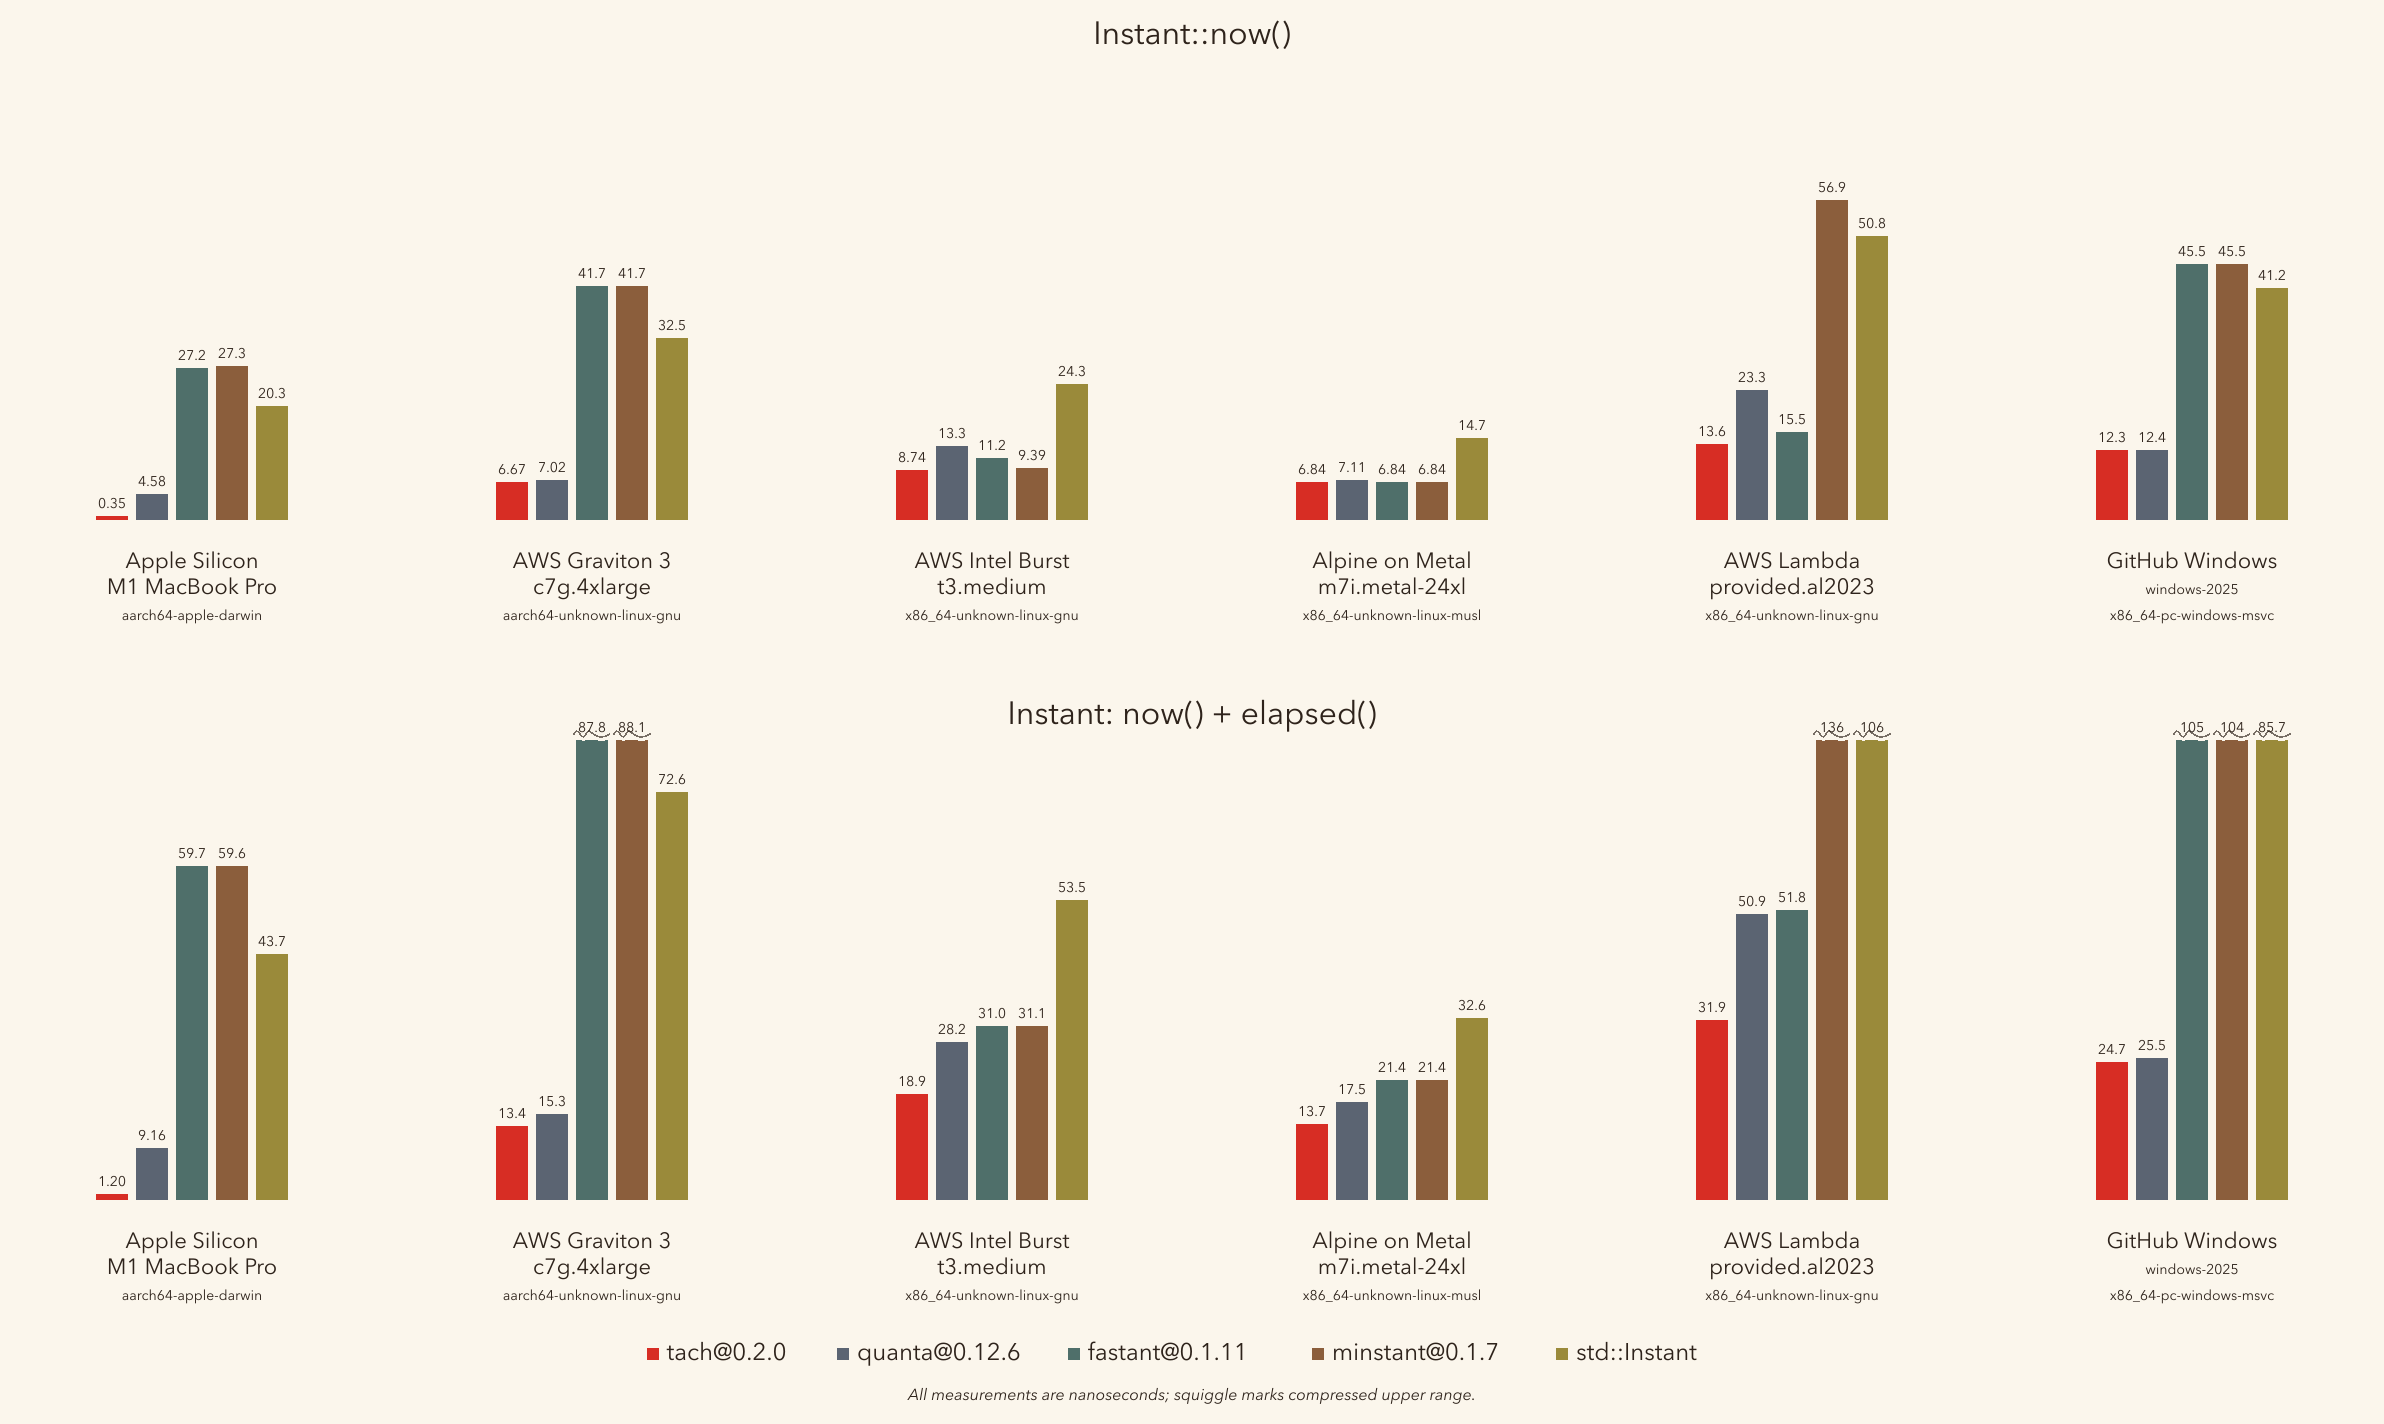
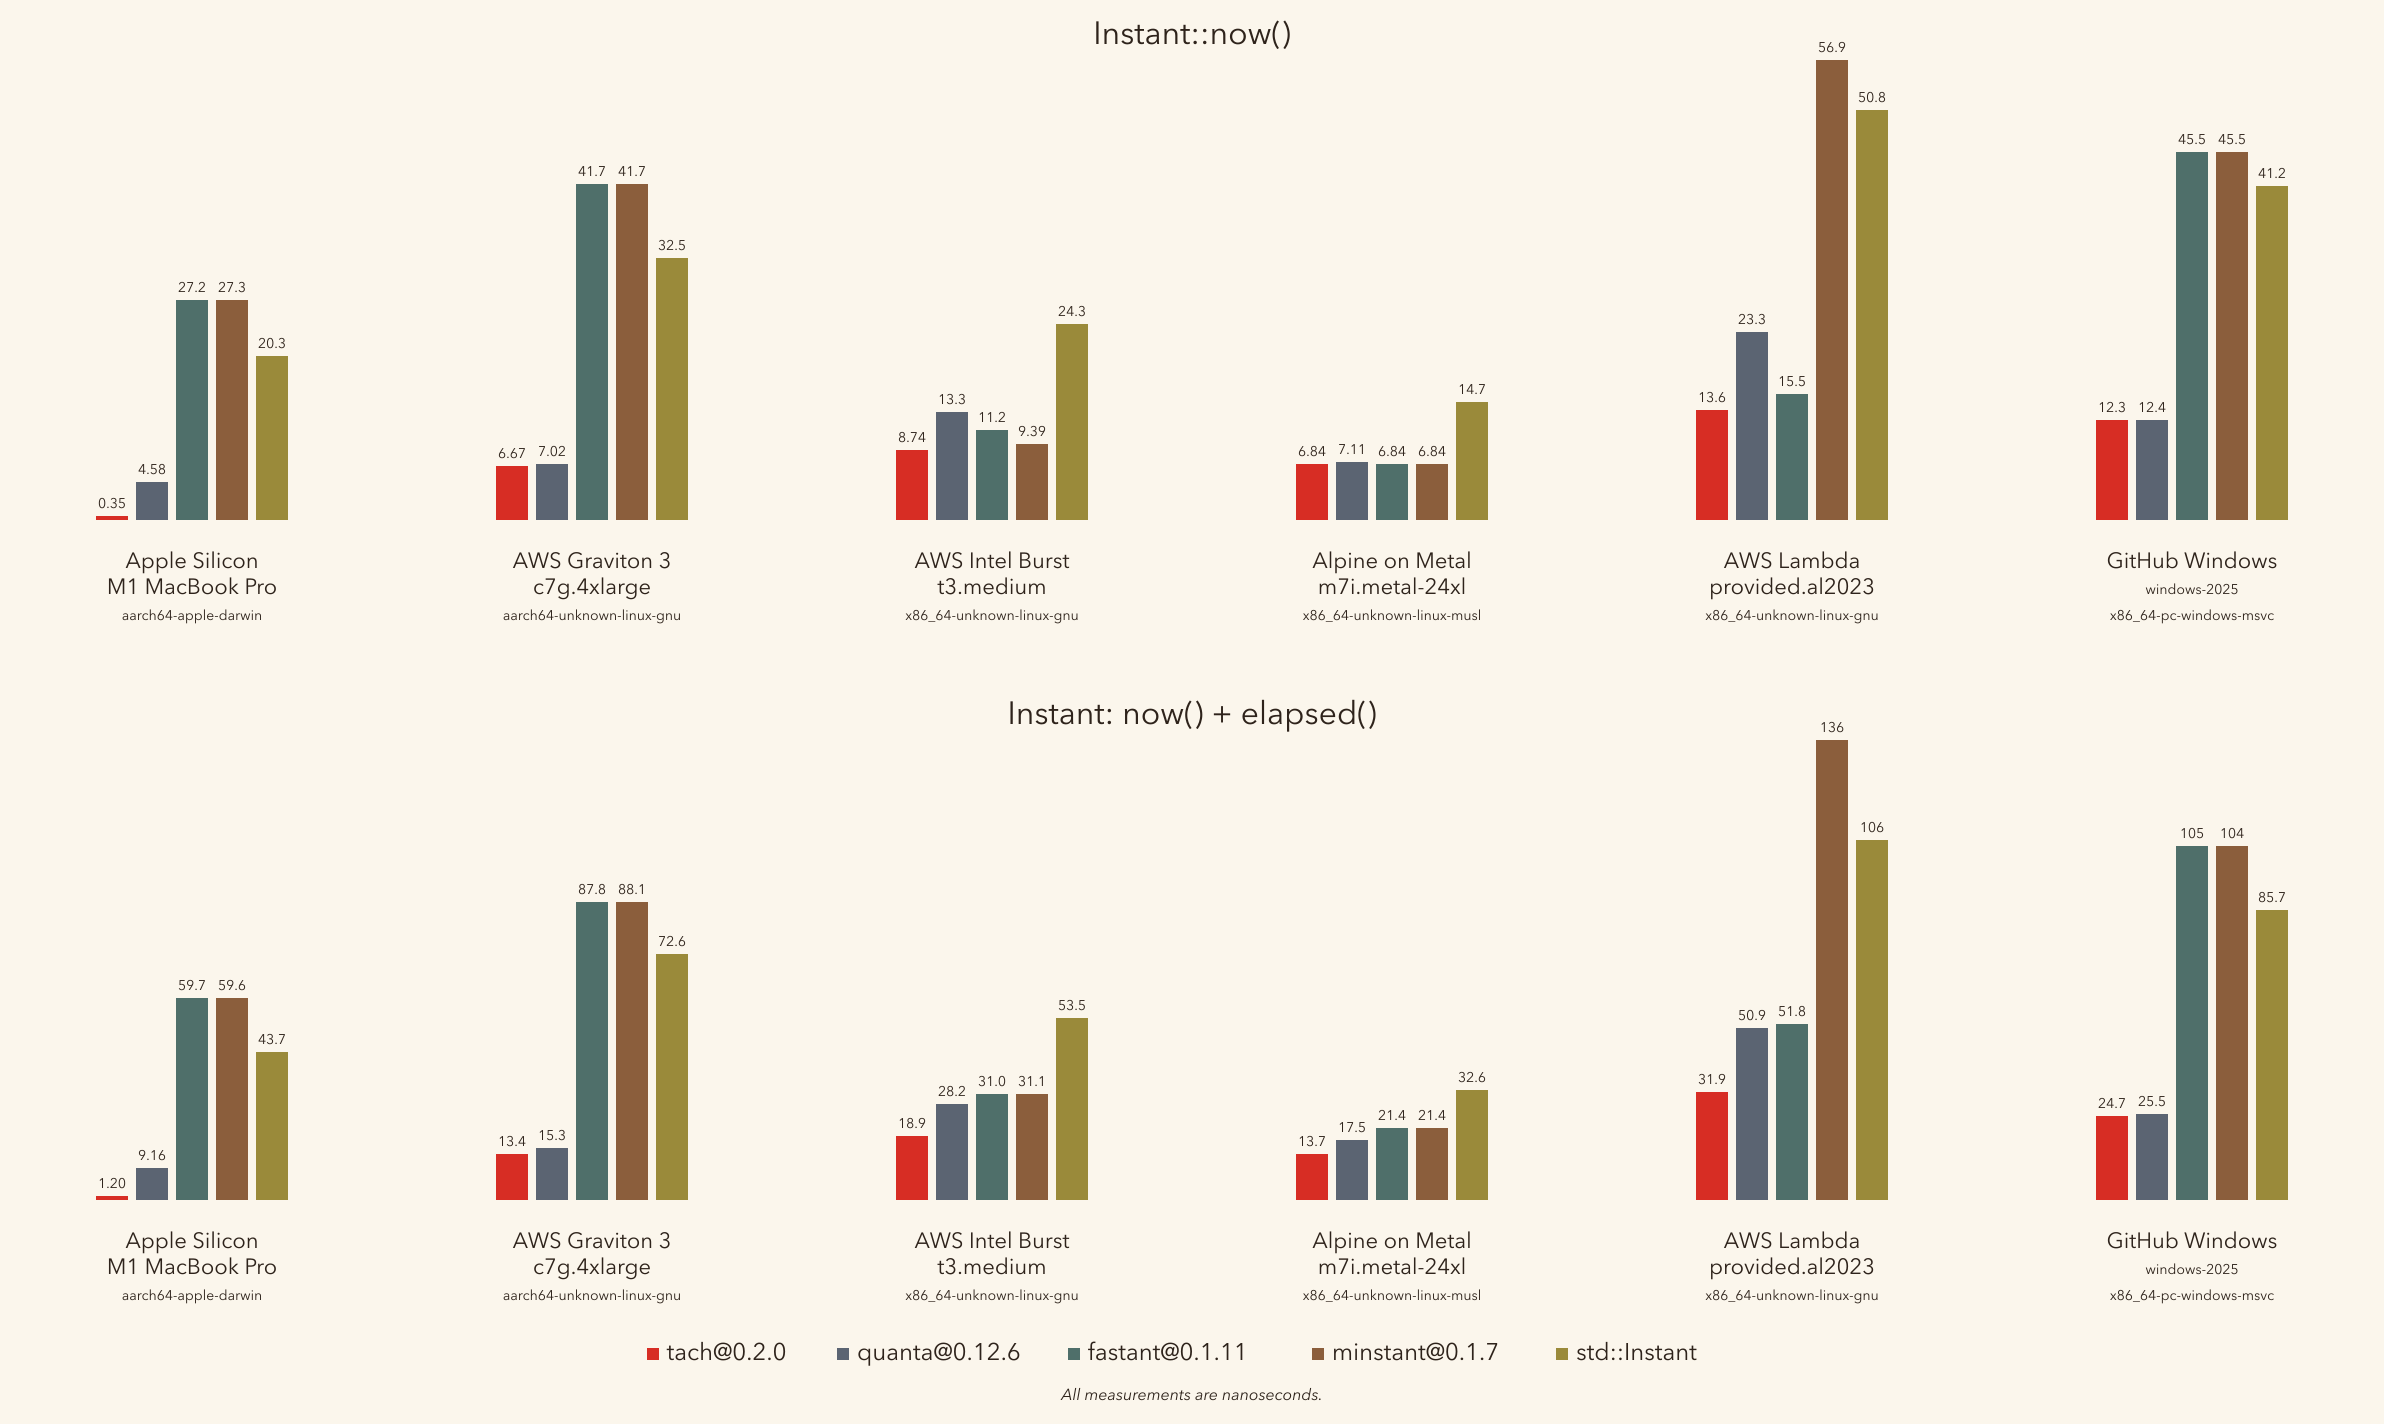
docs(benches): drop axis-break squiggles, scale bars to per-panel max
The previous treatment collapsed every bar over 82 ns to the same
height (UPPER_BAR_HEIGHT=0), which made 88 and 136 look identical.
Each panel now scales to its own global max so proportions are
honest.

diff --git a/benches/assets/render_benchmark.py b/benches/assets/render_benchmark.py
@@ -60,9 +60,6 @@ LEFT = 6
 LEGEND_GAP = 18
 LEGEND_SQUARE = 6
 BAR_AREA_HEIGHT = 230
-LOWER_BAR_HEIGHT = 230
-UPPER_BAR_HEIGHT = 0
-BREAK_VALUE = 82.0
 VALUE_FONT_SIZE = 7
 LABEL_FONT_SIZE = 11
 LABEL_LINE_GAP = 13
@@ -115,25 +112,7 @@ def text_width(value: str, size: int) -> float:
 
 
 def bar_height(value: float, global_max: float) -> int:
-  if value <= BREAK_VALUE:
-    return max(2, round(value / BREAK_VALUE * LOWER_BAR_HEIGHT))
-  upper = (value - BREAK_VALUE) / (global_max - BREAK_VALUE) * UPPER_BAR_HEIGHT
-  return round(LOWER_BAR_HEIGHT + upper)
-
-
-def bar_break(x: float, bar_width: int, bar_bottom: float) -> list[str]:
-  y = bar_bottom - LOWER_BAR_HEIGHT
-  path = (
-    f"M{x - 1:g} {y - 3:g} "
-    f"C{x + 1:g} {y - 8:g} {x + 3:g} {y + 2:g} {x + 5:g} {y - 3:g} "
-    f"S{x + 9:g} {y + 2:g} {x + bar_width + 1:g} {y - 3:g}"
-  )
-  return [
-    f'<path d="{path}" stroke="{BACKGROUND}" stroke-width="4" fill="none" stroke-linecap="round"/>',
-    '<path '
-    f'd="{path}" stroke="#2E231B" stroke-width="0.8" fill="none" '
-    'stroke-linecap="round" opacity="0.65"/>',
-  ]
+  return max(2, round(value / global_max * BAR_AREA_HEIGHT))
 
 
 def render_panel(groups, crates, title, bar_width, group_width, width, panel_top) -> list[str]:
@@ -172,8 +151,6 @@ def render_panel(groups, crates, title, bar_width, group_width, width, panel_top
         label_y -= VALUE_FONT_SIZE + 3
       placed_labels.append((label_x, label_y, width_estimate))
       parts.append(f'<rect x="{x:g}" y="{y:g}" width="{bar_width}" height="{h}" fill="{color}"/>')
-      if value > BREAK_VALUE:
-        parts.extend(bar_break(x, bar_width, bar_bottom))
       parts.append(text(label_x, label_y, label, VALUE_FONT_SIZE))
 
     center = group_x + group_width / 2
@@ -237,16 +214,7 @@ def render_combined_svg(now_groups, elapsed_groups, crates, bar_width, group_wid
     )
     legend_x += LEGEND_SQUARE + 4 + text_width(name, LEGEND_FONT_SIZE) + LEGEND_GAP
 
-  all_max = max(
-    value
-    for _, values in (now_groups + elapsed_groups)
-    for value in values
-    if value is not None
-  )
-  note = "All measurements are nanoseconds."
-  if all_max > BREAK_VALUE:
-    note = "All measurements are nanoseconds; squiggle marks compressed upper range."
-  parts.append(text(width / 2, note_y, note, 8, italic=True))
+  parts.append(text(width / 2, note_y, "All measurements are nanoseconds.", 8, italic=True))
 
   parts.append("</g>")
   parts.append("</svg>")
